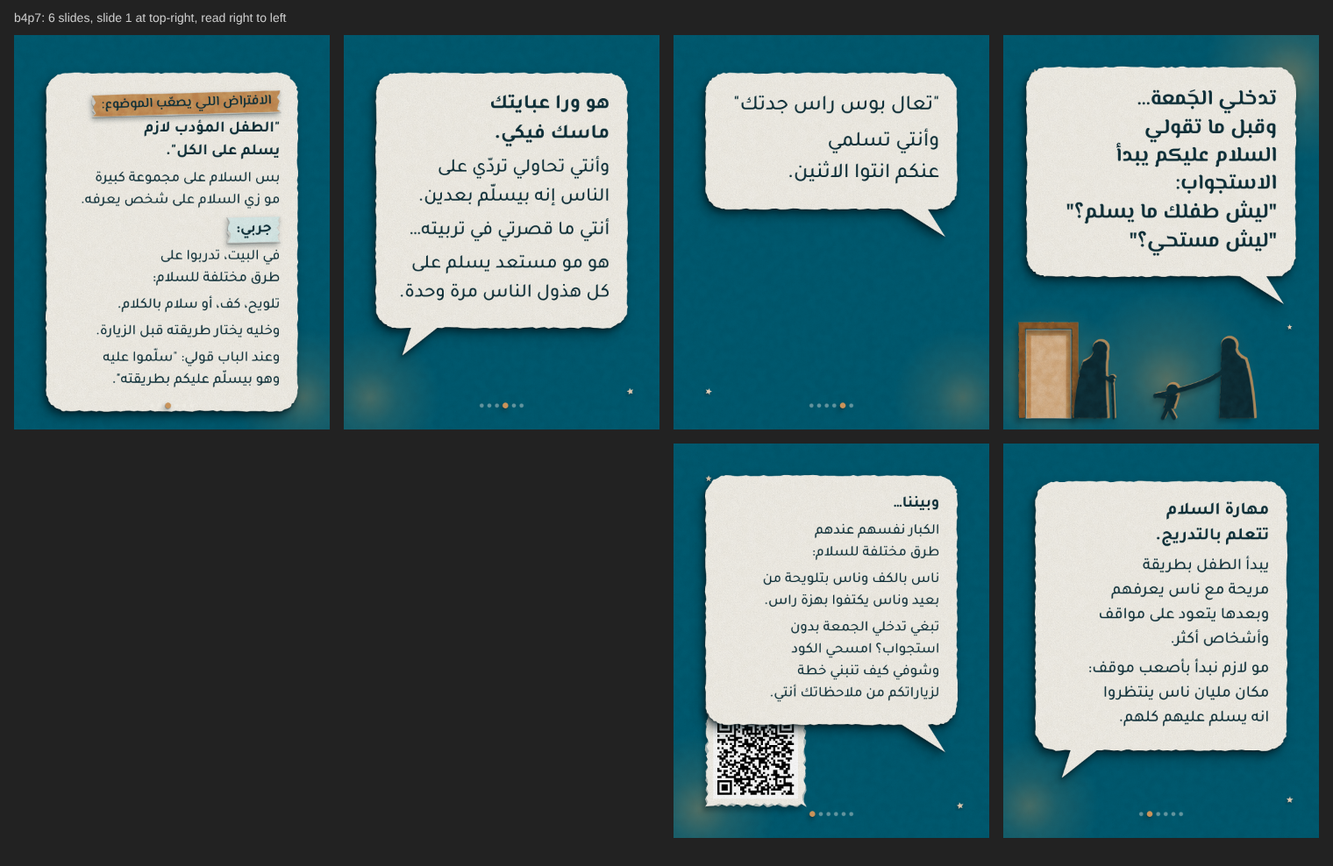
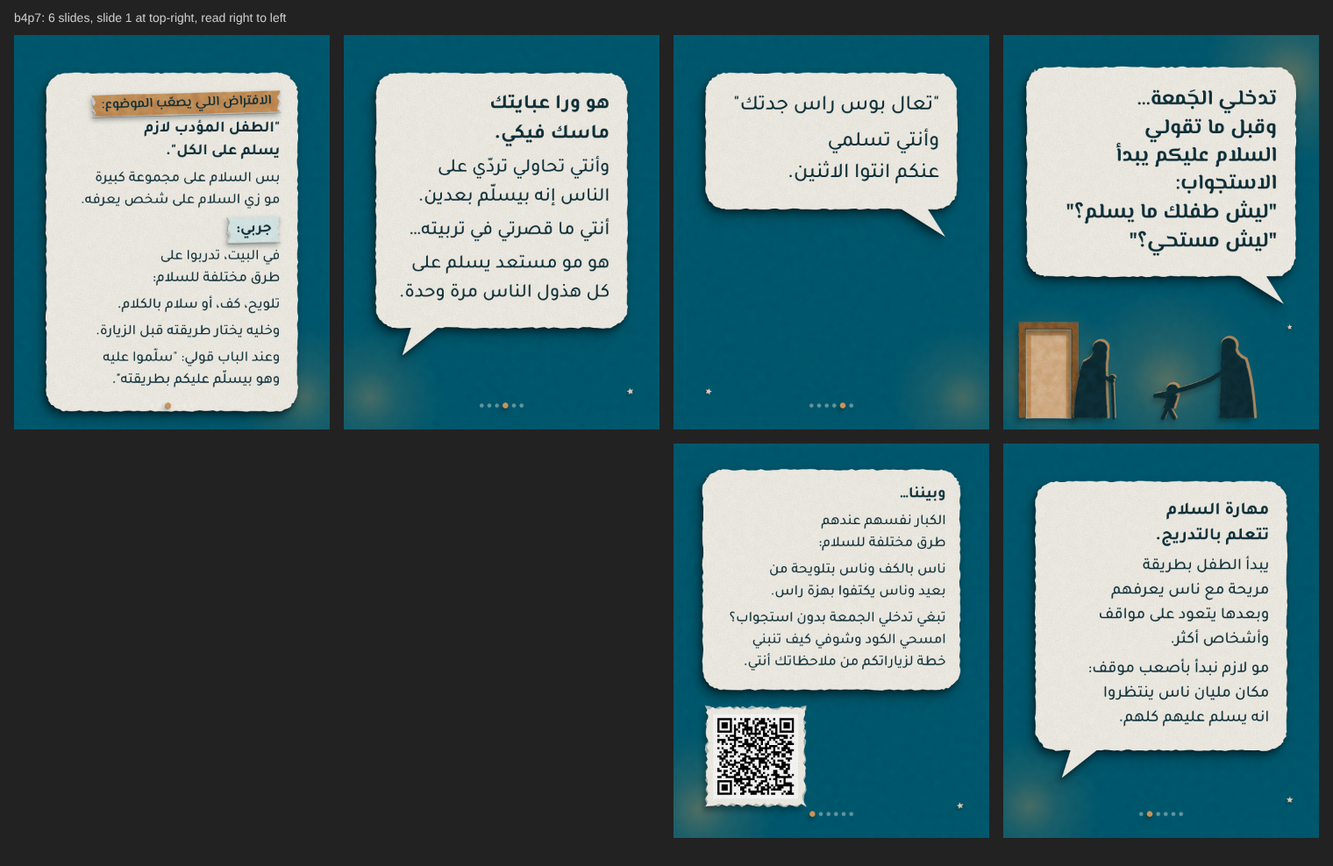
B4 fix: QR card never under text (runtime placement + hard check), end bubbles without tail; p7 QR now scans; 6 zips rebuilt
Claude-Session: https://claude.ai/code/session_01AkVcjuPs3oxeNjv6o6mABa

Changed region(s): [[0.5257, 0.5162, 0.7421, 0.8806], [0.5257, 0.6073, 0.5566, 0.6377]]

diff --git a/app/output_b4/b4p7/slide-1.html b/app/output_b4/b4p7/slide-1.html
@@ -281,7 +281,7 @@
 
 <svg class="art" viewBox="0 0 1080 1350" xmlns="http://www.w3.org/2000/svg">
 <rect x="0" y="0" width="1080" height="1350" fill="#005A70" filter="url(#pg)" />
-<defs><radialGradient id="gl10"><stop offset="0" stop-color="#C9935A" stop-opacity="0.45"/><stop offset=".4" stop-color="#C9935A" stop-opacity="0.171"/><stop offset="1" stop-color="#C9935A" stop-opacity="0"/></radialGradient></defs><circle cx="980" cy="140" r="300" fill="url(#gl10)"/><g filter="url(#pc-d1)" ><polygon points="107.5,116.2 112.7,124.3 122.3,123.3 116.2,130.8 120.2,139.6 111.1,136.2 104.0,142.6 104.5,133.0 96.1,128.2 105.4,125.7" fill="#EBD6BC"/></g><g filter="url(#pc-d1)" ><polygon points="250.3,221.0 252.5,226.8 258.6,227.5 253.8,231.4 255.1,237.4 249.9,234.0 244.5,237.1 246.1,231.1 241.5,227.0 247.7,226.7" fill="#EBD6BC"/></g><g filter="url(#pc-d1)" ><polygon points="979.1,990.0 982.3,996.1 989.2,996.1 984.4,1001.0 986.6,1007.5 980.4,1004.5 974.9,1008.6 975.9,1001.8 970.2,997.8 977.0,996.6" fill="#EBD6BC"/></g><g data-avoid="people"><defs><radialGradient id="gl11"><stop offset="0" stop-color="#C9935A" stop-opacity="0.55"/><stop offset=".4" stop-color="#C9935A" stop-opacity="0.209"/><stop offset="1" stop-color="#C9935A" stop-opacity="0"/></radialGradient></defs><circle cx="155.0" cy="1175.0" r="255.0" fill="url(#gl11)"/><g  ><g filter="url(#pt-d1)" ><polygon points="77.0,1007.0 153.1,1006.5 201.2,1007.0 233.0,1007.0 233.1,1058.8 233.1,1106.1 232.3,1158.8 232.9,1201.4 232.6,1267.4 233.0,1313.0 174.6,1312.2 99.7,1312.3 77.0,1313.0 77.7,1252.9 76.9,1188.0 77.1,1137.8 76.8,1060.3" fill="#F6F3EB" fill-opacity="0.7"/><polygon points="80.0,1010.0 142.3,1010.5 195.1,1009.7 230.0,1010.0 230.2,1064.4 230.5,1117.6 229.4,1182.8 229.8,1250.4 230.1,1303.9 230.0,1310.0 178.1,1310.3 98.9,1310.3 80.0,1310.0 80.2,1239.6 80.3,1192.4 79.9,1142.1 79.3,1096.8 79.2,1042.1" fill="#C9935A"/><rect x="95" y="1028" width="120" height="282" fill="#EBD6BC" fill-opacity=".5"/></g></g><g filter="url(#pc-d3)" ><path d="M 64 1310 V 994 H 246 V 1310" fill="none" stroke="#8A5A2B" stroke-width="22"/></g><defs><radialGradient id="gl12"><stop offset="0" stop-color="#C9935A" stop-opacity="0.42"/><stop offset=".4" stop-color="#C9935A" stop-opacity="0.160"/><stop offset="1" stop-color="#C9935A" stop-opacity="0"/></radialGradient></defs><circle cx="560" cy="1180" r="320" fill="url(#gl12)"/><g opacity=".85" transform="translate(4 -3)"><path d="M 309.2475 1080.6350000000002 Q 306.9525 1105.8800000000003 272.865 1118.5025000000003 Q 248.7 1186.0025000000003 240.6 1310 L 356.7 1310 Q 348.6 1186.0025000000003 351.165 1118.5025000000003 Q 355.14750000000004 1105.8800000000003 352.8525 1080.6350000000002 Z" fill="#C9935A" stroke="#C9935A" stroke-width="9" stroke-linejoin="round"/><circle cx="331.1" cy="1072.6" r="24.8" fill="#C9935A" stroke="#C9935A" stroke-width="9" stroke-linejoin="round"/><path d="M 327.0 1161.5 Q 354.0 1175.0 372.9 1183.1" fill="none" stroke="#C9935A" stroke-width="14" stroke-linecap="round"/><path d="M 372.9 1175.0 L 378.29999999999995 1310" stroke="#C9935A" stroke-width="8" stroke-linecap="round"/><path d="M 359.4 1175.0 Q 372.9 1158.8 381.0 1175.0" fill="none" stroke="#C9935A" stroke-width="8"/><path d="M 748.39 1071.02 Q 746.01 1097.2 745.9 1110.29 Q 746.8 1180.29 738.4 1310 L 858.8 1310 Q 850.4 1180.29 827.1 1110.29 Q 795.99 1097.2 793.61 1071.02 Z" fill="#C9935A" stroke="#C9935A" stroke-width="9" stroke-linejoin="round"/><circle cx="771.0" cy="1062.7" r="25.7" fill="#C9935A" stroke="#C9935A" stroke-width="9" stroke-linejoin="round"/><path d="M 768.3 1124.57 Q 748.6999999999999 1186.3674999999998 520.9 1234.445" fill="none" stroke="#C9935A" stroke-width="15" stroke-linecap="round"/><circle cx="578.4" cy="1214.5" r="19.6" fill="#C9935A" stroke="#C9935A" stroke-width="9" stroke-linejoin="round"/><path d="M 560.0 1232.145 L 596.8 1232.145 L 583.0 1277.8 L 548.5 1277.8 Z" fill="#C9935A" stroke="#C9935A" stroke-width="9" stroke-linejoin="round"/><path d="M 565.75 1275.5 L 585.3 1310" stroke="#C9935A" stroke-width="13" stroke-linecap="round"/><path d="M 562.3 1275.5 L 546.2 1310" stroke="#C9935A" stroke-width="13" stroke-linecap="round"/><path d="M 569.1999999999999 1243.645 Q 543.9 1234.445 520.9 1234.445" fill="none" stroke="#C9935A" stroke-width="10" stroke-linecap="round"/></g><g filter="url(#pc-d2)" ><path d="M 309.2475 1080.6350000000002 Q 306.9525 1105.8800000000003 272.865 1118.5025000000003 Q 248.7 1186.0025000000003 240.6 1310 L 356.7 1310 Q 348.6 1186.0025000000003 351.165 1118.5025000000003 Q 355.14750000000004 1105.8800000000003 352.8525 1080.6350000000002 Z" fill="#0E2F38"/><circle cx="331.1" cy="1072.6" r="24.8" fill="#0E2F38"/><path d="M 327.0 1161.5 Q 354.0 1175.0 372.9 1183.1" fill="none" stroke="#0E2F38" stroke-width="14" stroke-linecap="round"/><path d="M 372.9 1175.0 L 378.29999999999995 1310" stroke="#0E2F38" stroke-width="8" stroke-linecap="round"/><path d="M 359.4 1175.0 Q 372.9 1158.8 381.0 1175.0" fill="none" stroke="#0E2F38" stroke-width="8"/><path d="M 748.39 1071.02 Q 746.01 1097.2 745.9 1110.29 Q 746.8 1180.29 738.4 1310 L 858.8 1310 Q 850.4 1180.29 827.1 1110.29 Q 795.99 1097.2 793.61 1071.02 Z" fill="#0E2F38"/><circle cx="771.0" cy="1062.7" r="25.7" fill="#0E2F38"/><path d="M 768.3 1124.57 Q 748.6999999999999 1186.3674999999998 520.9 1234.445" fill="none" stroke="#0E2F38" stroke-width="15" stroke-linecap="round"/><circle cx="578.4" cy="1214.5" r="19.6" fill="#0E2F38"/><path d="M 560.0 1232.145 L 596.8 1232.145 L 583.0 1277.8 L 548.5 1277.8 Z" fill="#0E2F38"/><path d="M 565.75 1275.5 L 585.3 1310" stroke="#0E2F38" stroke-width="13" stroke-linecap="round"/><path d="M 562.3 1275.5 L 546.2 1310" stroke="#0E2F38" stroke-width="13" stroke-linecap="round"/><path d="M 569.1999999999999 1243.645 Q 543.9 1234.445 520.9 1234.445" fill="none" stroke="#0E2F38" stroke-width="10" stroke-linecap="round"/></g></g>
+<defs><radialGradient id="gl29"><stop offset="0" stop-color="#C9935A" stop-opacity="0.45"/><stop offset=".4" stop-color="#C9935A" stop-opacity="0.171"/><stop offset="1" stop-color="#C9935A" stop-opacity="0"/></radialGradient></defs><circle cx="980" cy="140" r="300" fill="url(#gl29)"/><g filter="url(#pc-d1)" ><polygon points="107.5,116.2 112.7,124.3 122.3,123.3 116.2,130.8 120.2,139.6 111.1,136.2 104.0,142.6 104.5,133.0 96.1,128.2 105.4,125.7" fill="#EBD6BC"/></g><g filter="url(#pc-d1)" ><polygon points="250.3,221.0 252.5,226.8 258.6,227.5 253.8,231.4 255.1,237.4 249.9,234.0 244.5,237.1 246.1,231.1 241.5,227.0 247.7,226.7" fill="#EBD6BC"/></g><g filter="url(#pc-d1)" ><polygon points="979.1,990.0 982.3,996.1 989.2,996.1 984.4,1001.0 986.6,1007.5 980.4,1004.5 974.9,1008.6 975.9,1001.8 970.2,997.8 977.0,996.6" fill="#EBD6BC"/></g><g data-avoid="people"><defs><radialGradient id="gl30"><stop offset="0" stop-color="#C9935A" stop-opacity="0.55"/><stop offset=".4" stop-color="#C9935A" stop-opacity="0.209"/><stop offset="1" stop-color="#C9935A" stop-opacity="0"/></radialGradient></defs><circle cx="155.0" cy="1175.0" r="255.0" fill="url(#gl30)"/><g  ><g filter="url(#pt-d1)" ><polygon points="77.0,1007.0 153.1,1006.5 201.2,1007.0 233.0,1007.0 233.1,1058.8 233.1,1106.1 232.3,1158.8 232.9,1201.4 232.6,1267.4 233.0,1313.0 174.6,1312.2 99.7,1312.3 77.0,1313.0 77.7,1252.9 76.9,1188.0 77.1,1137.8 76.8,1060.3" fill="#F6F3EB" fill-opacity="0.7"/><polygon points="80.0,1010.0 142.3,1010.5 195.1,1009.7 230.0,1010.0 230.2,1064.4 230.5,1117.6 229.4,1182.8 229.8,1250.4 230.1,1303.9 230.0,1310.0 178.1,1310.3 98.9,1310.3 80.0,1310.0 80.2,1239.6 80.3,1192.4 79.9,1142.1 79.3,1096.8 79.2,1042.1" fill="#C9935A"/><rect x="95" y="1028" width="120" height="282" fill="#EBD6BC" fill-opacity=".5"/></g></g><g filter="url(#pc-d3)" ><path d="M 64 1310 V 994 H 246 V 1310" fill="none" stroke="#8A5A2B" stroke-width="22"/></g><defs><radialGradient id="gl31"><stop offset="0" stop-color="#C9935A" stop-opacity="0.42"/><stop offset=".4" stop-color="#C9935A" stop-opacity="0.160"/><stop offset="1" stop-color="#C9935A" stop-opacity="0"/></radialGradient></defs><circle cx="560" cy="1180" r="320" fill="url(#gl31)"/><g opacity=".85" transform="translate(4 -3)"><path d="M 309.2475 1080.6350000000002 Q 306.9525 1105.8800000000003 272.865 1118.5025000000003 Q 248.7 1186.0025000000003 240.6 1310 L 356.7 1310 Q 348.6 1186.0025000000003 351.165 1118.5025000000003 Q 355.14750000000004 1105.8800000000003 352.8525 1080.6350000000002 Z" fill="#C9935A" stroke="#C9935A" stroke-width="9" stroke-linejoin="round"/><circle cx="331.1" cy="1072.6" r="24.8" fill="#C9935A" stroke="#C9935A" stroke-width="9" stroke-linejoin="round"/><path d="M 327.0 1161.5 Q 354.0 1175.0 372.9 1183.1" fill="none" stroke="#C9935A" stroke-width="14" stroke-linecap="round"/><path d="M 372.9 1175.0 L 378.29999999999995 1310" stroke="#C9935A" stroke-width="8" stroke-linecap="round"/><path d="M 359.4 1175.0 Q 372.9 1158.8 381.0 1175.0" fill="none" stroke="#C9935A" stroke-width="8"/><path d="M 748.39 1071.02 Q 746.01 1097.2 745.9 1110.29 Q 746.8 1180.29 738.4 1310 L 858.8 1310 Q 850.4 1180.29 827.1 1110.29 Q 795.99 1097.2 793.61 1071.02 Z" fill="#C9935A" stroke="#C9935A" stroke-width="9" stroke-linejoin="round"/><circle cx="771.0" cy="1062.7" r="25.7" fill="#C9935A" stroke="#C9935A" stroke-width="9" stroke-linejoin="round"/><path d="M 768.3 1124.57 Q 748.6999999999999 1186.3674999999998 520.9 1234.445" fill="none" stroke="#C9935A" stroke-width="15" stroke-linecap="round"/><circle cx="578.4" cy="1214.5" r="19.6" fill="#C9935A" stroke="#C9935A" stroke-width="9" stroke-linejoin="round"/><path d="M 560.0 1232.145 L 596.8 1232.145 L 583.0 1277.8 L 548.5 1277.8 Z" fill="#C9935A" stroke="#C9935A" stroke-width="9" stroke-linejoin="round"/><path d="M 565.75 1275.5 L 585.3 1310" stroke="#C9935A" stroke-width="13" stroke-linecap="round"/><path d="M 562.3 1275.5 L 546.2 1310" stroke="#C9935A" stroke-width="13" stroke-linecap="round"/><path d="M 569.1999999999999 1243.645 Q 543.9 1234.445 520.9 1234.445" fill="none" stroke="#C9935A" stroke-width="10" stroke-linecap="round"/></g><g filter="url(#pc-d2)" ><path d="M 309.2475 1080.6350000000002 Q 306.9525 1105.8800000000003 272.865 1118.5025000000003 Q 248.7 1186.0025000000003 240.6 1310 L 356.7 1310 Q 348.6 1186.0025000000003 351.165 1118.5025000000003 Q 355.14750000000004 1105.8800000000003 352.8525 1080.6350000000002 Z" fill="#0E2F38"/><circle cx="331.1" cy="1072.6" r="24.8" fill="#0E2F38"/><path d="M 327.0 1161.5 Q 354.0 1175.0 372.9 1183.1" fill="none" stroke="#0E2F38" stroke-width="14" stroke-linecap="round"/><path d="M 372.9 1175.0 L 378.29999999999995 1310" stroke="#0E2F38" stroke-width="8" stroke-linecap="round"/><path d="M 359.4 1175.0 Q 372.9 1158.8 381.0 1175.0" fill="none" stroke="#0E2F38" stroke-width="8"/><path d="M 748.39 1071.02 Q 746.01 1097.2 745.9 1110.29 Q 746.8 1180.29 738.4 1310 L 858.8 1310 Q 850.4 1180.29 827.1 1110.29 Q 795.99 1097.2 793.61 1071.02 Z" fill="#0E2F38"/><circle cx="771.0" cy="1062.7" r="25.7" fill="#0E2F38"/><path d="M 768.3 1124.57 Q 748.6999999999999 1186.3674999999998 520.9 1234.445" fill="none" stroke="#0E2F38" stroke-width="15" stroke-linecap="round"/><circle cx="578.4" cy="1214.5" r="19.6" fill="#0E2F38"/><path d="M 560.0 1232.145 L 596.8 1232.145 L 583.0 1277.8 L 548.5 1277.8 Z" fill="#0E2F38"/><path d="M 565.75 1275.5 L 585.3 1310" stroke="#0E2F38" stroke-width="13" stroke-linecap="round"/><path d="M 562.3 1275.5 L 546.2 1310" stroke="#0E2F38" stroke-width="13" stroke-linecap="round"/><path d="M 569.1999999999999 1243.645 Q 543.9 1234.445 520.9 1234.445" fill="none" stroke="#0E2F38" stroke-width="10" stroke-linecap="round"/></g></g>
 </svg>
 <div class="tx c-ink card torn bubble hookcard" data-maxh="700" data-minfs="72" data-shape="bubble" data-tail="r" data-fill="#F6F3EB" data-seed="51" data-sides="tblr" style="left:80px;top:110px;width:920px;padding:64px 64px 70px;--fs:96px;"><div class="hook" data-seg data-ord="0" data-sep="none">تدخلي الجَمعة…</div><div class="hook" data-seg data-ord="1" data-sep="nl">وقبل ما تقولي <span class="nb">السلام عليكم</span> يبدأ الاستجواب:</div><div class="hook" data-seg data-ord="2" data-sep="nl">"ليش طفلك ما يسلم؟"</div><div class="hook" data-seg data-ord="3" data-sep="nl"><span class="nb">"ليش مستحي؟"</span></div></div>
 

diff --git a/app/output_b4/b4p3/slide-8.html b/app/output_b4/b4p3/slide-8.html
@@ -281,9 +281,9 @@
 
 <svg class="art" viewBox="0 0 1080 1350" xmlns="http://www.w3.org/2000/svg">
 <rect x="0" y="0" width="1080" height="1350" fill="#003F4F" filter="url(#pg)" />
[2 lines of base64/hex data omitted]
 </svg>
-<div class="tx c-ink card torn bubble endcard" data-maxh="620" data-minfs="50" data-shape="bubble" data-tail="r" data-fill="#F6F3EB" data-seed="53" data-sides="tblr" style="left:110px;top:110px;width:860px;padding:60px 60px 66px;--fs:72px;"><div class="lead" data-seg data-ord="25" data-sep="none">الأم تدخل ممر الألعاب عشان تشتري شي واحد…</div><div class="support" data-seg data-ord="26" data-sep="nl">وتطلع وهي عارفة أسعار كل ألعاب المحل.</div><div class="support" data-seg data-ord="27" data-sep="nl">تبغي تتسوقي بدون ما يتحول كل طلب لعبة لمعركة؟ امسحي الكود واكتشفي كيف تجهزي للمواقف هذي بطريقة تناسب طفلك.</div></div>
+<div class="tx c-ink card torn bubble endcard" data-maxh="760" data-minfs="50" data-shape="bubble" data-tail="none" data-fill="#F6F3EB" data-seed="53" data-sides="tblr" style="left:100px;top:90px;width:880px;padding:48px 48px 54px;--fs:72px;"><div class="lead" data-seg data-ord="25" data-sep="none">الأم تدخل ممر الألعاب عشان تشتري شي واحد…</div><div class="support" data-seg data-ord="26" data-sep="nl">وتطلع وهي عارفة أسعار كل ألعاب المحل.</div><div class="support" data-seg data-ord="27" data-sep="nl">تبغي تتسوقي بدون ما يتحول كل طلب لعبة لمعركة؟ امسحي الكود واكتشفي كيف تجهزي للمواقف هذي بطريقة تناسب طفلك.</div></div>
 <div class="dots dots-dark"><i class=""></i><i class=""></i><i class=""></i><i class=""></i><i class=""></i><i class=""></i><i class=""></i><i class="on"></i></div>
 </div>
 <script src="../../production-library/kit_b4/kit.js"></script>

diff --git a/app/output_b4/b4p7/slide-6.html b/app/output_b4/b4p7/slide-6.html
@@ -281,9 +281,9 @@
 
 <svg class="art" viewBox="0 0 1080 1350" xmlns="http://www.w3.org/2000/svg">
 <rect x="0" y="0" width="1080" height="1350" fill="#005A70" filter="url(#pg)" />
[2 lines of base64/hex data omitted]
 </svg>
-<div class="tx c-ink card torn bubble endcard" data-maxh="620" data-minfs="50" data-shape="bubble" data-tail="r" data-fill="#F6F3EB" data-seed="53" data-sides="tblr" style="left:110px;top:110px;width:860px;padding:60px 60px 66px;--fs:72px;"><div class="lead" data-seg data-ord="21" data-sep="none">وبيننا…</div><div class="support" data-seg data-ord="22" data-sep="nl">الكبار نفسهم عندهم طرق مختلفة للسلام:</div><div class="support" data-seg data-ord="23" data-sep="nl">ناس بالكف وناس بتلويحة من بعيد وناس يكتفوا بهزة راس.</div><div class="support" data-seg data-ord="24" data-sep="nl">تبغي تدخلي الجمعة بدون استجواب؟ امسحي الكود وشوفي كيف تنبني خطة لزياراتكم من ملاحظاتك أنتي.</div></div>
+<div class="tx c-ink card torn bubble endcard" data-maxh="760" data-minfs="50" data-shape="bubble" data-tail="none" data-fill="#F6F3EB" data-seed="53" data-sides="tblr" style="left:100px;top:90px;width:880px;padding:48px 48px 54px;--fs:72px;"><div class="lead" data-seg data-ord="21" data-sep="none">وبيننا…</div><div class="support" data-seg data-ord="22" data-sep="nl">الكبار نفسهم عندهم طرق مختلفة للسلام:</div><div class="support" data-seg data-ord="23" data-sep="nl">ناس بالكف وناس بتلويحة من بعيد وناس يكتفوا بهزة راس.</div><div class="support" data-seg data-ord="24" data-sep="nl">تبغي تدخلي الجمعة بدون استجواب؟ امسحي الكود وشوفي كيف تنبني خطة لزياراتكم من ملاحظاتك أنتي.</div></div>
 <div class="dots dots-dark"><i class=""></i><i class=""></i><i class=""></i><i class=""></i><i class=""></i><i class="on"></i></div>
 </div>
 <script src="../../production-library/kit_b4/kit.js"></script>

diff --git a/app/output_b4/b4p3/slide-1.html b/app/output_b4/b4p3/slide-1.html
@@ -281,7 +281,7 @@
 
 <svg class="art" viewBox="0 0 1080 1350" xmlns="http://www.w3.org/2000/svg">
 <rect x="0" y="0" width="1080" height="1350" fill="#003F4F" filter="url(#pg)" />
-<defs><radialGradient id="gl1"><stop offset="0" stop-color="#C9935A" stop-opacity="0.45"/><stop offset=".4" stop-color="#C9935A" stop-opacity="0.171"/><stop offset="1" stop-color="#C9935A" stop-opacity="0"/></radialGradient></defs><circle cx="980" cy="140" r="300" fill="url(#gl1)"/><g filter="url(#pc-d1)" ><polygon points="107.5,116.2 112.7,124.3 122.3,123.3 116.2,130.8 120.2,139.6 111.1,136.2 104.0,142.6 104.5,133.0 96.1,128.2 105.4,125.7" fill="#EBD6BC"/></g><g filter="url(#pc-d1)" ><polygon points="250.3,221.0 252.5,226.8 258.6,227.5 253.8,231.4 255.1,237.4 249.9,234.0 244.5,237.1 246.1,231.1 241.5,227.0 247.7,226.7" fill="#EBD6BC"/></g><g filter="url(#pc-d1)" ><polygon points="979.1,990.0 982.3,996.1 989.2,996.1 984.4,1001.0 986.6,1007.5 980.4,1004.5 974.9,1008.6 975.9,1001.8 970.2,997.8 977.0,996.6" fill="#EBD6BC"/></g><g data-avoid="people"><g filter="url(#pc-d2)" ><rect x="30" y="1187" width="105" height="148" rx="6" fill="#00A9A5"/><rect x="149" y="1175" width="96" height="160" rx="6" fill="#EBD6BC"/><rect x="259" y="1206" width="120" height="129" rx="6" fill="#C9935A"/><rect x="393" y="1217" width="95" height="118" rx="6" fill="#F6F3EB"/><rect x="502" y="1174" width="91" height="161" rx="6" fill="#007A77"/><rect x="607" y="1188" width="125" height="147" rx="6" fill="#EBD6BC"/><rect x="746" y="1218" width="141" height="117" rx="6" fill="#00A9A5"/><rect x="901" y="1159" width="104" height="176" rx="6" fill="#00A9A5"/><rect x="1019" y="1179" width="124" height="156" rx="6" fill="#EBD6BC"/></g><g filter="url(#pc-d1)" ><rect x="-20" y="1335" width="1120" height="28" fill="#8A5A2B"/></g><defs><radialGradient id="gl2"><stop offset="0" stop-color="#C9935A" stop-opacity="0.42"/><stop offset=".4" stop-color="#C9935A" stop-opacity="0.160"/><stop offset="1" stop-color="#C9935A" stop-opacity="0"/></radialGradient></defs><circle cx="560" cy="1180" r="320" fill="url(#gl2)"/><g opacity=".85" transform="translate(4 -3)"><path d="M 381.8325 1060.81 Q 379.3675 1087.925 346.4 1101.4824999999998 Q 324.9 1173.9824999999998 316.2 1310 L 440.9 1310 Q 432.2 1173.9824999999998 430.5 1101.4824999999998 Q 431.1325 1087.925 428.6675 1060.81 Z" fill="#C9935A" stroke="#C9935A" stroke-width="9" stroke-linejoin="round"/><circle cx="405.2" cy="1052.2" r="26.6" fill="#C9935A" stroke="#C9935A" stroke-width="9" stroke-linejoin="round"/><path d="M 410.2 1116.2724999999998 Q 430.5 1179.17875 517.5 1227.875" fill="none" stroke="#C9935A" stroke-width="16" stroke-linecap="round"/><circle cx="580.0" cy="1206.2" r="21.2" fill="#C9935A" stroke="#C9935A" stroke-width="9" stroke-linejoin="round"/><path d="M 560.0 1225.375 L 600.0 1225.375 L 585.0 1275.0 L 547.5 1275.0 Z" fill="#C9935A" stroke="#C9935A" stroke-width="9" stroke-linejoin="round"/><path d="M 566.25 1272.5 L 587.5 1310" stroke="#C9935A" stroke-width="14" stroke-linecap="round"/><path d="M 562.5 1272.5 L 545.0 1310" stroke="#C9935A" stroke-width="14" stroke-linecap="round"/><path d="M 570.0 1237.875 Q 542.5 1227.875 517.5 1227.875" fill="none" stroke="#C9935A" stroke-width="11" stroke-linecap="round"/><path d="M 896.34 1075.48 Q 920 1033.62 943.66 1075.48 L 953.8 1123.84 L 886.2 1123.84 Z" fill="#C9935A" stroke="#C9935A" stroke-width="9" stroke-linejoin="round"/><path d="M 886.2 1103.04 L 953.8 1103.04 L 959.0 1310 L 881.0 1310 Z" fill="#C9935A" stroke="#C9935A" stroke-width="9" stroke-linejoin="round"/></g><g filter="url(#pc-d2)" ><path d="M 381.8325 1060.81 Q 379.3675 1087.925 346.4 1101.4824999999998 Q 324.9 1173.9824999999998 316.2 1310 L 440.9 1310 Q 432.2 1173.9824999999998 430.5 1101.4824999999998 Q 431.1325 1087.925 428.6675 1060.81 Z" fill="#0E2F38"/><circle cx="405.2" cy="1052.2" r="26.6" fill="#0E2F38"/><path d="M 410.2 1116.2724999999998 Q 430.5 1179.17875 517.5 1227.875" fill="none" stroke="#0E2F38" stroke-width="16" stroke-linecap="round"/><circle cx="580.0" cy="1206.2" r="21.2" fill="#0E2F38"/><path d="M 560.0 1225.375 L 600.0 1225.375 L 585.0 1275.0 L 547.5 1275.0 Z" fill="#0E2F38"/><path d="M 566.25 1272.5 L 587.5 1310" stroke="#0E2F38" stroke-width="14" stroke-linecap="round"/><path d="M 562.5 1272.5 L 545.0 1310" stroke="#0E2F38" stroke-width="14" stroke-linecap="round"/><path d="M 570.0 1237.875 Q 542.5 1227.875 517.5 1227.875" fill="none" stroke="#0E2F38" stroke-width="11" stroke-linecap="round"/><path d="M 896.34 1075.48 Q 920 1033.62 943.66 1075.48 L 953.8 1123.84 L 886.2 1123.84 Z" fill="#0E2F38"/><path d="M 886.2 1103.04 L 953.8 1103.04 L 959.0 1310 L 881.0 1310 Z" fill="#0E2F38"/></g></g>
+<defs><radialGradient id="gl12"><stop offset="0" stop-color="#C9935A" stop-opacity="0.45"/><stop offset=".4" stop-color="#C9935A" stop-opacity="0.171"/><stop offset="1" stop-color="#C9935A" stop-opacity="0"/></radialGradient></defs><circle cx="980" cy="140" r="300" fill="url(#gl12)"/><g filter="url(#pc-d1)" ><polygon points="107.5,116.2 112.7,124.3 122.3,123.3 116.2,130.8 120.2,139.6 111.1,136.2 104.0,142.6 104.5,133.0 96.1,128.2 105.4,125.7" fill="#EBD6BC"/></g><g filter="url(#pc-d1)" ><polygon points="250.3,221.0 252.5,226.8 258.6,227.5 253.8,231.4 255.1,237.4 249.9,234.0 244.5,237.1 246.1,231.1 241.5,227.0 247.7,226.7" fill="#EBD6BC"/></g><g filter="url(#pc-d1)" ><polygon points="979.1,990.0 982.3,996.1 989.2,996.1 984.4,1001.0 986.6,1007.5 980.4,1004.5 974.9,1008.6 975.9,1001.8 970.2,997.8 977.0,996.6" fill="#EBD6BC"/></g><g data-avoid="people"><g filter="url(#pc-d2)" ><rect x="30" y="1187" width="105" height="148" rx="6" fill="#00A9A5"/><rect x="149" y="1175" width="96" height="160" rx="6" fill="#EBD6BC"/><rect x="259" y="1206" width="120" height="129" rx="6" fill="#C9935A"/><rect x="393" y="1217" width="95" height="118" rx="6" fill="#F6F3EB"/><rect x="502" y="1174" width="91" height="161" rx="6" fill="#007A77"/><rect x="607" y="1188" width="125" height="147" rx="6" fill="#EBD6BC"/><rect x="746" y="1218" width="141" height="117" rx="6" fill="#00A9A5"/><rect x="901" y="1159" width="104" height="176" rx="6" fill="#00A9A5"/><rect x="1019" y="1179" width="124" height="156" rx="6" fill="#EBD6BC"/></g><g filter="url(#pc-d1)" ><rect x="-20" y="1335" width="1120" height="28" fill="#8A5A2B"/></g><defs><radialGradient id="gl13"><stop offset="0" stop-color="#C9935A" stop-opacity="0.42"/><stop offset=".4" stop-color="#C9935A" stop-opacity="0.160"/><stop offset="1" stop-color="#C9935A" stop-opacity="0"/></radialGradient></defs><circle cx="560" cy="1180" r="320" fill="url(#gl13)"/><g opacity=".85" transform="translate(4 -3)"><path d="M 381.8325 1060.81 Q 379.3675 1087.925 346.4 1101.4824999999998 Q 324.9 1173.9824999999998 316.2 1310 L 440.9 1310 Q 432.2 1173.9824999999998 430.5 1101.4824999999998 Q 431.1325 1087.925 428.6675 1060.81 Z" fill="#C9935A" stroke="#C9935A" stroke-width="9" stroke-linejoin="round"/><circle cx="405.2" cy="1052.2" r="26.6" fill="#C9935A" stroke="#C9935A" stroke-width="9" stroke-linejoin="round"/><path d="M 410.2 1116.2724999999998 Q 430.5 1179.17875 517.5 1227.875" fill="none" stroke="#C9935A" stroke-width="16" stroke-linecap="round"/><circle cx="580.0" cy="1206.2" r="21.2" fill="#C9935A" stroke="#C9935A" stroke-width="9" stroke-linejoin="round"/><path d="M 560.0 1225.375 L 600.0 1225.375 L 585.0 1275.0 L 547.5 1275.0 Z" fill="#C9935A" stroke="#C9935A" stroke-width="9" stroke-linejoin="round"/><path d="M 566.25 1272.5 L 587.5 1310" stroke="#C9935A" stroke-width="14" stroke-linecap="round"/><path d="M 562.5 1272.5 L 545.0 1310" stroke="#C9935A" stroke-width="14" stroke-linecap="round"/><path d="M 570.0 1237.875 Q 542.5 1227.875 517.5 1227.875" fill="none" stroke="#C9935A" stroke-width="11" stroke-linecap="round"/><path d="M 896.34 1075.48 Q 920 1033.62 943.66 1075.48 L 953.8 1123.84 L 886.2 1123.84 Z" fill="#C9935A" stroke="#C9935A" stroke-width="9" stroke-linejoin="round"/><path d="M 886.2 1103.04 L 953.8 1103.04 L 959.0 1310 L 881.0 1310 Z" fill="#C9935A" stroke="#C9935A" stroke-width="9" stroke-linejoin="round"/></g><g filter="url(#pc-d2)" ><path d="M 381.8325 1060.81 Q 379.3675 1087.925 346.4 1101.4824999999998 Q 324.9 1173.9824999999998 316.2 1310 L 440.9 1310 Q 432.2 1173.9824999999998 430.5 1101.4824999999998 Q 431.1325 1087.925 428.6675 1060.81 Z" fill="#0E2F38"/><circle cx="405.2" cy="1052.2" r="26.6" fill="#0E2F38"/><path d="M 410.2 1116.2724999999998 Q 430.5 1179.17875 517.5 1227.875" fill="none" stroke="#0E2F38" stroke-width="16" stroke-linecap="round"/><circle cx="580.0" cy="1206.2" r="21.2" fill="#0E2F38"/><path d="M 560.0 1225.375 L 600.0 1225.375 L 585.0 1275.0 L 547.5 1275.0 Z" fill="#0E2F38"/><path d="M 566.25 1272.5 L 587.5 1310" stroke="#0E2F38" stroke-width="14" stroke-linecap="round"/><path d="M 562.5 1272.5 L 545.0 1310" stroke="#0E2F38" stroke-width="14" stroke-linecap="round"/><path d="M 570.0 1237.875 Q 542.5 1227.875 517.5 1227.875" fill="none" stroke="#0E2F38" stroke-width="11" stroke-linecap="round"/><path d="M 896.34 1075.48 Q 920 1033.62 943.66 1075.48 L 953.8 1123.84 L 886.2 1123.84 Z" fill="#0E2F38"/><path d="M 886.2 1103.04 L 953.8 1103.04 L 959.0 1310 L 881.0 1310 Z" fill="#0E2F38"/></g></g>
 </svg>
 <div class="tx c-ink card torn bubble hookcard" data-maxh="700" data-minfs="72" data-shape="bubble" data-tail="r" data-fill="#F6F3EB" data-seed="51" data-sides="tblr" style="left:80px;top:110px;width:920px;padding:64px 64px 70px;--fs:96px;"><div class="hook" data-seg data-ord="0" data-sep="none">في ممر الألعاب.</div><div class="hook" data-seg data-ord="1" data-sep="nl">طفلك شاف لعبة وعجبته… وقرر إنها لازم تجي معاكم.</div><div class="hook" data-seg data-ord="2" data-sep="nl">بعد <span class="nb">شوية، هو</span> على الأرض يبكي.</div><div class="hook" data-seg data-ord="3" data-sep="nl">ثلاث عوائل تتفرج.</div></div>
 

diff --git a/app/output_b4/b4p7/slide-4.html b/app/output_b4/b4p7/slide-4.html
@@ -281,7 +281,7 @@
 
 <svg class="art" viewBox="0 0 1080 1350" xmlns="http://www.w3.org/2000/svg">
 <rect x="0" y="0" width="1080" height="1350" fill="#005A70" filter="url(#pg)" />
-<defs><radialGradient id="gl15"><stop offset="0" stop-color="#C9935A" stop-opacity="0.35"/><stop offset=".4" stop-color="#C9935A" stop-opacity="0.133"/><stop offset="1" stop-color="#C9935A" stop-opacity="0"/></radialGradient></defs><circle cx="990" cy="1240" r="240" fill="url(#gl15)"/><g filter="url(#pc-d1)" ><polygon points="117.8,1208.2 122.3,1215.1 130.5,1214.3 125.4,1220.7 128.7,1228.3 121.0,1225.3 114.8,1230.8 115.3,1222.6 108.1,1218.4 116.1,1216.3" fill="#EBD6BC"/></g>
+<defs><radialGradient id="gl34"><stop offset="0" stop-color="#C9935A" stop-opacity="0.35"/><stop offset=".4" stop-color="#C9935A" stop-opacity="0.133"/><stop offset="1" stop-color="#C9935A" stop-opacity="0"/></radialGradient></defs><circle cx="990" cy="1240" r="240" fill="url(#gl34)"/><g filter="url(#pc-d1)" ><polygon points="117.8,1208.2 122.3,1215.1 130.5,1214.3 125.4,1220.7 128.7,1228.3 121.0,1225.3 114.8,1230.8 115.3,1222.6 108.1,1218.4 116.1,1216.3" fill="#EBD6BC"/></g>
 </svg>
 <div class="tx c-ink card torn bubble" data-maxh="930" data-minfs="50" data-shape="bubble" data-tail="r" data-fill="#F6F3EB" data-seed="59" data-sides="tblr" style="left:110px;top:130px;width:860px;padding:60px 60px 66px;--fs:72px;"><div class="ltag torn" data-fill="#C9935A" data-seed="5" data-sides="lr"><span class="label" data-seg data-ord="10" data-sep="none">الافتراض اللي يصعّب الموضوع:</span></div><div class="lead" data-seg data-ord="11" data-sep="nl">"الطفل المؤدب لازم يسلم على الكل".</div><div class="support" data-seg data-ord="12" data-sep="nl">بس السلام على مجموعة كبيرة مو زي السلام على شخص يعرفه.</div><div class="tooltag torn" data-fill="#DCEEEC" data-seed="8" data-sides="lr"><div class="tool" data-seg data-ord="13" data-sep="nl">جربي:</div></div><div class="support" data-seg data-ord="14" data-sep="nl">في <span class="nb">البيت، تدربوا</span> على طرق مختلفة للسلام:</div><div class="support" data-seg data-ord="15" data-sep="nl"><span class="nb">تلويح، كف، أو</span> سلام بالكلام.</div><div class="support" data-seg data-ord="16" data-sep="nl">وخليه يختار طريقته قبل الزيارة.</div><div class="support" data-seg data-ord="17" data-sep="nl">وعند الباب قولي: "سلّموا عليه<span class="dc">،</span> <br>وهو بيسلّم عليكم بطريقته".</div></div>
 <div class="dots dots-dark"><i class=""></i><i class=""></i><i class=""></i><i class="on"></i><i class=""></i><i class=""></i></div>

diff --git a/app/output_b4/b4p3/slide-6.html b/app/output_b4/b4p3/slide-6.html
@@ -281,7 +281,7 @@
 
 <svg class="art" viewBox="0 0 1080 1350" xmlns="http://www.w3.org/2000/svg">
 <rect x="0" y="0" width="1080" height="1350" fill="#003F4F" filter="url(#pg)" />
-<defs><radialGradient id="gl7"><stop offset="0" stop-color="#C9935A" stop-opacity="0.35"/><stop offset=".4" stop-color="#C9935A" stop-opacity="0.133"/><stop offset="1" stop-color="#C9935A" stop-opacity="0"/></radialGradient></defs><circle cx="990" cy="1240" r="240" fill="url(#gl7)"/><g filter="url(#pc-d1)" ><polygon points="122.4,1208.3 124.0,1216.4 131.9,1218.7 124.7,1222.7 124.9,1230.9 118.9,1225.3 111.1,1228.1 114.6,1220.6 109.6,1214.0 117.8,1215.1" fill="#EBD6BC"/></g>
+<defs><radialGradient id="gl18"><stop offset="0" stop-color="#C9935A" stop-opacity="0.35"/><stop offset=".4" stop-color="#C9935A" stop-opacity="0.133"/><stop offset="1" stop-color="#C9935A" stop-opacity="0"/></radialGradient></defs><circle cx="990" cy="1240" r="240" fill="url(#gl18)"/><g filter="url(#pc-d1)" ><polygon points="122.4,1208.3 124.0,1216.4 131.9,1218.7 124.7,1222.7 124.9,1230.9 118.9,1225.3 111.1,1228.1 114.6,1220.6 109.6,1214.0 117.8,1215.1" fill="#EBD6BC"/></g>
 </svg>
 <div class="tx c-ink card torn bubble" data-maxh="930" data-minfs="50" data-shape="bubble" data-tail="r" data-fill="#F6F3EB" data-seed="61" data-sides="tblr" style="left:110px;top:130px;width:860px;padding:60px 60px 66px;--fs:72px;"><div class="ltag torn" data-fill="#C9935A" data-seed="5" data-sides="lr"><span class="label" data-seg data-ord="17" data-sep="none">الخطوة الثالثة:</span></div><div class="lead" data-seg data-ord="18" data-sep="sp">جهّزي إشارة النهاية.</div><div class="support" data-seg data-ord="19" data-sep="nl">اختاري جملة قصيرة تكرريها قبل الخروج من الأماكن:</div><div class="support" data-seg data-ord="20" data-sep="nl"><span class="nb">"خلصنا، دحين</span> بنروح".</div><div class="support" data-seg data-ord="21" data-sep="nl">استخدميها قبل وقت الخروج<span class="dc">،</span> <br>مو لأول مرة وسط نوبة الغضب.</div></div>
 <div class="dots dots-dark"><i class=""></i><i class=""></i><i class=""></i><i class=""></i><i class=""></i><i class="on"></i><i class=""></i><i class=""></i></div>

diff --git a/app/output_b4/b4p3/slide-7.html b/app/output_b4/b4p3/slide-7.html
@@ -281,7 +281,7 @@
 
 <svg class="art" viewBox="0 0 1080 1350" xmlns="http://www.w3.org/2000/svg">
 <rect x="0" y="0" width="1080" height="1350" fill="#003F4F" filter="url(#pg)" />
-<defs><radialGradient id="gl8"><stop offset="0" stop-color="#C9935A" stop-opacity="0.35"/><stop offset=".4" stop-color="#C9935A" stop-opacity="0.133"/><stop offset="1" stop-color="#C9935A" stop-opacity="0"/></radialGradient></defs><circle cx="90" cy="1240" r="240" fill="url(#gl8)"/><g filter="url(#pc-d1)" ><polygon points="978.5,1208.1 982.6,1215.3 990.9,1214.9 985.3,1221.0 988.2,1228.8 980.7,1225.4 974.2,1230.5 975.1,1222.3 968.2,1217.7 976.3,1216.1" fill="#EBD6BC"/></g>
+<defs><radialGradient id="gl19"><stop offset="0" stop-color="#C9935A" stop-opacity="0.35"/><stop offset=".4" stop-color="#C9935A" stop-opacity="0.133"/><stop offset="1" stop-color="#C9935A" stop-opacity="0"/></radialGradient></defs><circle cx="90" cy="1240" r="240" fill="url(#gl19)"/><g filter="url(#pc-d1)" ><polygon points="978.5,1208.1 982.6,1215.3 990.9,1214.9 985.3,1221.0 988.2,1228.8 980.7,1225.4 974.2,1230.5 975.1,1222.3 968.2,1217.7 976.3,1216.1" fill="#EBD6BC"/></g>
 </svg>
 <div class="tx c-ink card torn bubble" data-maxh="930" data-minfs="50" data-shape="bubble" data-tail="l" data-fill="#F6F3EB" data-seed="62" data-sides="tblr" style="left:110px;top:130px;width:860px;padding:60px 60px 66px;--fs:72px;"><div class="lead" data-seg data-ord="22" data-sep="none">الطفل ما يتعلم تقبّل نهاية المشوار من أول مرة تصير فيها أزمة.</div><div class="support" data-seg data-ord="23" data-sep="nl">هو يتعلم من تكرار نفس الإشارات في مواقف مختلفة<span class="dc">،</span> <br>ومع الوقت يبدأ يتوقع إيش بيجي بعدها.</div><div class="support" data-seg data-ord="24" data-sep="nl">عشان <span class="nb">كذا، نبدأ</span> ببناء المهارة في المواقف اليومية<span class="dc">،</span> <br>قبل ما نحتاجها في أصعب لحظة.</div></div>
 <div class="dots dots-dark"><i class=""></i><i class=""></i><i class=""></i><i class=""></i><i class=""></i><i class=""></i><i class="on"></i><i class=""></i></div>

diff --git a/app/production-library/kit_b4/kit.js b/app/production-library/kit_b4/kit.js
@@ -38,6 +38,20 @@
       el.dataset.fitfs = fs;
     });
   }
+  function placeQR() { // B4 fix (Nov 26): the QR card always sits fully below every text block / bubble tail
+    const q = document.querySelector('[data-avoid="qr"]'); if (!q) return;
+    const qb = q.getBoundingClientRect(); let bottom = 0;
+    document.querySelectorAll('.tx').forEach(t => {
+      const r = t.getBoundingClientRect(); let b = r.bottom;
+      if (t.dataset.shape === 'bubble' && t.dataset.tail !== 'none' && t.offsetTop + t.offsetHeight < 1140) b += 100;
+      if (r.left < qb.right && r.right > qb.left) bottom = Math.max(bottom, b);
+    });
+    const top = bottom + 24, maxBottom = 1245;
+    if (qb.top >= top) { document.documentElement.dataset.qrScale = '1'; return; }
+    const s = Math.min(1, (maxBottom - top) / qb.height);
+    q.setAttribute('transform', `translate(${qb.left} ${top}) scale(${s}) translate(${-qb.left} ${-qb.top})`);
+    document.documentElement.dataset.qrScale = s.toFixed(2);
+  }
   function build() {
     fit();
     document.querySelectorAll('.torn').forEach(el => {
@@ -61,7 +75,7 @@
         const line = (x0, y0, x1, y1) => { const L = Math.hypot(x1 - x0, y1 - y0), n = Math.max(2, L / 14 | 0); for (let k = 1; k < n; k++) push(x0 + (x1 - x0) * k / n, y0 + (y1 - y0) * k / n); };
         const tx = el.dataset.tail === 'r' ? w - 190 : 120;   // tail root
         arc(R, R, 180, 270); line(R, 0, w - R, 0); arc(w - R, R, 270, 360); line(w, R, w, h - R); arc(w - R, h - R, 0, 90);
-        const roomForTail = el.offsetTop + h < 1140;
+        const roomForTail = el.dataset.tail !== 'none' && el.offsetTop + h < 1140;
         if (roomForTail) { line(w - R, h, tx + 90, h); pts.push([tx + 90, h]); pts.push([el.dataset.tail === 'r' ? tx + 150 : tx - 30, h + 95]); pts.push([tx, h]); }
         else line(w - R, h, tx, h);
         line(tx, h, R, h); arc(R, h - R, 90, 180); line(0, h - R, 0, R);
@@ -76,6 +90,7 @@
         (el._string ? `<g filter="url(#pc-${t}2)">${el._string}</g>` : '') + `</svg>`;
       el.insertAdjacentHTML('afterbegin', svg);
     });
+    placeQR();
     document.documentElement.dataset.kitReady = '1';
   }
   const AR = 'أبجد هوز حطي كلمن';

diff --git a/app/output_b4/b4p3/slide-4.html b/app/output_b4/b4p3/slide-4.html
@@ -281,7 +281,7 @@
 
 <svg class="art" viewBox="0 0 1080 1350" xmlns="http://www.w3.org/2000/svg">
 <rect x="0" y="0" width="1080" height="1350" fill="#003F4F" filter="url(#pg)" />
-<defs><radialGradient id="gl5"><stop offset="0" stop-color="#C9935A" stop-opacity="0.35"/><stop offset=".4" stop-color="#C9935A" stop-opacity="0.133"/><stop offset="1" stop-color="#C9935A" stop-opacity="0"/></radialGradient></defs><circle cx="990" cy="1240" r="240" fill="url(#gl5)"/><g filter="url(#pc-d1)" ><polygon points="117.8,1208.2 122.3,1215.1 130.5,1214.3 125.4,1220.7 128.7,1228.3 121.0,1225.3 114.8,1230.8 115.3,1222.6 108.1,1218.4 116.1,1216.3" fill="#EBD6BC"/></g>
+<defs><radialGradient id="gl16"><stop offset="0" stop-color="#C9935A" stop-opacity="0.35"/><stop offset=".4" stop-color="#C9935A" stop-opacity="0.133"/><stop offset="1" stop-color="#C9935A" stop-opacity="0"/></radialGradient></defs><circle cx="990" cy="1240" r="240" fill="url(#gl16)"/><g filter="url(#pc-d1)" ><polygon points="117.8,1208.2 122.3,1215.1 130.5,1214.3 125.4,1220.7 128.7,1228.3 121.0,1225.3 114.8,1230.8 115.3,1222.6 108.1,1218.4 116.1,1216.3" fill="#EBD6BC"/></g>
 </svg>
 <div class="tx c-ink card torn bubble" data-maxh="930" data-minfs="50" data-shape="bubble" data-tail="r" data-fill="#F6F3EB" data-seed="59" data-sides="tblr" style="left:110px;top:130px;width:860px;padding:60px 60px 66px;--fs:72px;"><div class="ltag torn" data-fill="#C9935A" data-seed="5" data-sides="lr"><span class="label" data-seg data-ord="9" data-sep="none">الخطوة الأولى:</span></div><div class="lead" data-seg data-ord="10" data-sep="sp">حدديها قبل الدخول.</div><div class="support" data-seg data-ord="11" data-sep="nl">قبل ممر الألعاب<span class="dc">،</span> <br>قولي له إذا اليوم للشراء أو للفرجة.</div><div class="support" data-seg data-ord="12" data-sep="nl">لا تخلي القرار يتحدد بعد ما يختار لعبته.</div></div>
 <div class="dots dots-dark"><i class=""></i><i class=""></i><i class=""></i><i class="on"></i><i class=""></i><i class=""></i><i class=""></i><i class=""></i></div>

diff --git a/app/output_b4/b4p3/slide-5.html b/app/output_b4/b4p3/slide-5.html
@@ -281,7 +281,7 @@
 
 <svg class="art" viewBox="0 0 1080 1350" xmlns="http://www.w3.org/2000/svg">
 <rect x="0" y="0" width="1080" height="1350" fill="#003F4F" filter="url(#pg)" />
-<defs><radialGradient id="gl6"><stop offset="0" stop-color="#C9935A" stop-opacity="0.35"/><stop offset=".4" stop-color="#C9935A" stop-opacity="0.133"/><stop offset="1" stop-color="#C9935A" stop-opacity="0"/></radialGradient></defs><circle cx="90" cy="1240" r="240" fill="url(#gl6)"/><g filter="url(#pc-d1)" ><polygon points="981.0,1208.0 983.5,1215.9 991.7,1217.3 985.0,1222.1 986.2,1230.3 979.5,1225.4 972.1,1229.1 974.7,1221.2 968.9,1215.3 977.2,1215.4" fill="#EBD6BC"/></g>
+<defs><radialGradient id="gl17"><stop offset="0" stop-color="#C9935A" stop-opacity="0.35"/><stop offset=".4" stop-color="#C9935A" stop-opacity="0.133"/><stop offset="1" stop-color="#C9935A" stop-opacity="0"/></radialGradient></defs><circle cx="90" cy="1240" r="240" fill="url(#gl17)"/><g filter="url(#pc-d1)" ><polygon points="981.0,1208.0 983.5,1215.9 991.7,1217.3 985.0,1222.1 986.2,1230.3 979.5,1225.4 972.1,1229.1 974.7,1221.2 968.9,1215.3 977.2,1215.4" fill="#EBD6BC"/></g>
 </svg>
 <div class="tx c-ink card torn bubble" data-maxh="930" data-minfs="50" data-shape="bubble" data-tail="l" data-fill="#F6F3EB" data-seed="60" data-sides="tblr" style="left:110px;top:130px;width:860px;padding:60px 60px 66px;--fs:72px;"><div class="ltag torn" data-fill="#C9935A" data-seed="5" data-sides="lr"><span class="label" data-seg data-ord="13" data-sep="nl">الخطوة الثانية:</span></div><div class="support" data-seg data-ord="14" data-sep="sp">لا تفاوضي وقت البكاء.</div><div class="support" data-seg data-ord="15" data-sep="nl">إذا بدأ ينهار<span class="dc">،</span> <br>لا توريه بدائل ولا تدخلي في نقاش.</div><div class="support" data-seg data-ord="16" data-sep="nl">ركّزي على الخروج من الموقف.</div></div>
 <div class="dots dots-dark"><i class=""></i><i class=""></i><i class=""></i><i class=""></i><i class="on"></i><i class=""></i><i class=""></i><i class=""></i></div>

diff --git a/app/output_b4/b4p3/slide-3.html b/app/output_b4/b4p3/slide-3.html
@@ -281,7 +281,7 @@
 
 <svg class="art" viewBox="0 0 1080 1350" xmlns="http://www.w3.org/2000/svg">
 <rect x="0" y="0" width="1080" height="1350" fill="#003F4F" filter="url(#pg)" />
-<defs><radialGradient id="gl4"><stop offset="0" stop-color="#C9935A" stop-opacity="0.35"/><stop offset=".4" stop-color="#C9935A" stop-opacity="0.133"/><stop offset="1" stop-color="#C9935A" stop-opacity="0"/></radialGradient></defs><circle cx="90" cy="1240" r="240" fill="url(#gl4)"/><g filter="url(#pc-d1)" ><polygon points="977.8,1208.2 982.3,1215.1 990.5,1214.3 985.4,1220.7 988.7,1228.3 981.0,1225.3 974.8,1230.8 975.3,1222.6 968.1,1218.4 976.1,1216.3" fill="#EBD6BC"/></g>
+<defs><radialGradient id="gl15"><stop offset="0" stop-color="#C9935A" stop-opacity="0.35"/><stop offset=".4" stop-color="#C9935A" stop-opacity="0.133"/><stop offset="1" stop-color="#C9935A" stop-opacity="0"/></radialGradient></defs><circle cx="90" cy="1240" r="240" fill="url(#gl15)"/><g filter="url(#pc-d1)" ><polygon points="977.8,1208.2 982.3,1215.1 990.5,1214.3 985.4,1220.7 988.7,1228.3 981.0,1225.3 974.8,1230.8 975.3,1222.6 968.1,1218.4 976.1,1216.3" fill="#EBD6BC"/></g>
 </svg>
 <div class="tx c-ink card torn bubble" data-maxh="930" data-minfs="50" data-shape="bubble" data-tail="l" data-fill="#F6F3EB" data-seed="58" data-sides="tblr" style="left:110px;top:130px;width:860px;padding:60px 60px 66px;--fs:72px;"><div class="lead" data-seg data-ord="5" data-sep="none">واحد يقول: <span class="nb">"الله يعينك"</span>.</div><div class="support" data-seg data-ord="6" data-sep="nl">ووحدة تهمس: <span class="nb">"مدلع"</span>.</div><div class="support" data-seg data-ord="7" data-sep="nl">وأنتي في نص الممر<span class="dc">،</span> <br>تحسي إن الكل يراقبك.</div><div class="support" data-seg data-ord="8" data-sep="nl">هذي 3 خطوات تساعدك.</div></div>
 <div class="dots dots-dark"><i class=""></i><i class=""></i><i class="on"></i><i class=""></i><i class=""></i><i class=""></i><i class=""></i><i class=""></i></div>

diff --git a/app/output_b4/b4p7/slide-3.html b/app/output_b4/b4p7/slide-3.html
@@ -281,7 +281,7 @@
 
 <svg class="art" viewBox="0 0 1080 1350" xmlns="http://www.w3.org/2000/svg">
 <rect x="0" y="0" width="1080" height="1350" fill="#005A70" filter="url(#pg)" />
-<defs><radialGradient id="gl14"><stop offset="0" stop-color="#C9935A" stop-opacity="0.35"/><stop offset=".4" stop-color="#C9935A" stop-opacity="0.133"/><stop offset="1" stop-color="#C9935A" stop-opacity="0"/></radialGradient></defs><circle cx="90" cy="1240" r="240" fill="url(#gl14)"/><g filter="url(#pc-d1)" ><polygon points="977.8,1208.2 982.3,1215.1 990.5,1214.3 985.4,1220.7 988.7,1228.3 981.0,1225.3 974.8,1230.8 975.3,1222.6 968.1,1218.4 976.1,1216.3" fill="#EBD6BC"/></g>
+<defs><radialGradient id="gl33"><stop offset="0" stop-color="#C9935A" stop-opacity="0.35"/><stop offset=".4" stop-color="#C9935A" stop-opacity="0.133"/><stop offset="1" stop-color="#C9935A" stop-opacity="0"/></radialGradient></defs><circle cx="90" cy="1240" r="240" fill="url(#gl33)"/><g filter="url(#pc-d1)" ><polygon points="977.8,1208.2 982.3,1215.1 990.5,1214.3 985.4,1220.7 988.7,1228.3 981.0,1225.3 974.8,1230.8 975.3,1222.6 968.1,1218.4 976.1,1216.3" fill="#EBD6BC"/></g>
 </svg>
 <div class="tx c-ink card torn bubble" data-maxh="930" data-minfs="50" data-shape="bubble" data-tail="l" data-fill="#F6F3EB" data-seed="58" data-sides="tblr" style="left:110px;top:130px;width:860px;padding:60px 60px 66px;--fs:72px;"><div class="lead" data-seg data-ord="6" data-sep="none">هو ورا عبايتك<span class="dc">،</span> <br>ماسك فيكي.</div><div class="support" data-seg data-ord="7" data-sep="nl">وأنتي تحاولي تردّي على الناس إنه بيسلّم بعدين.</div><div class="support" data-seg data-ord="8" data-sep="nl">أنتي ما قصرتي في تربيته…</div><div class="support" data-seg data-ord="9" data-sep="nl">هو مو مستعد يسلم على كل هذول الناس مرة وحدة.</div></div>
 <div class="dots dots-dark"><i class=""></i><i class=""></i><i class="on"></i><i class=""></i><i class=""></i><i class=""></i></div>
